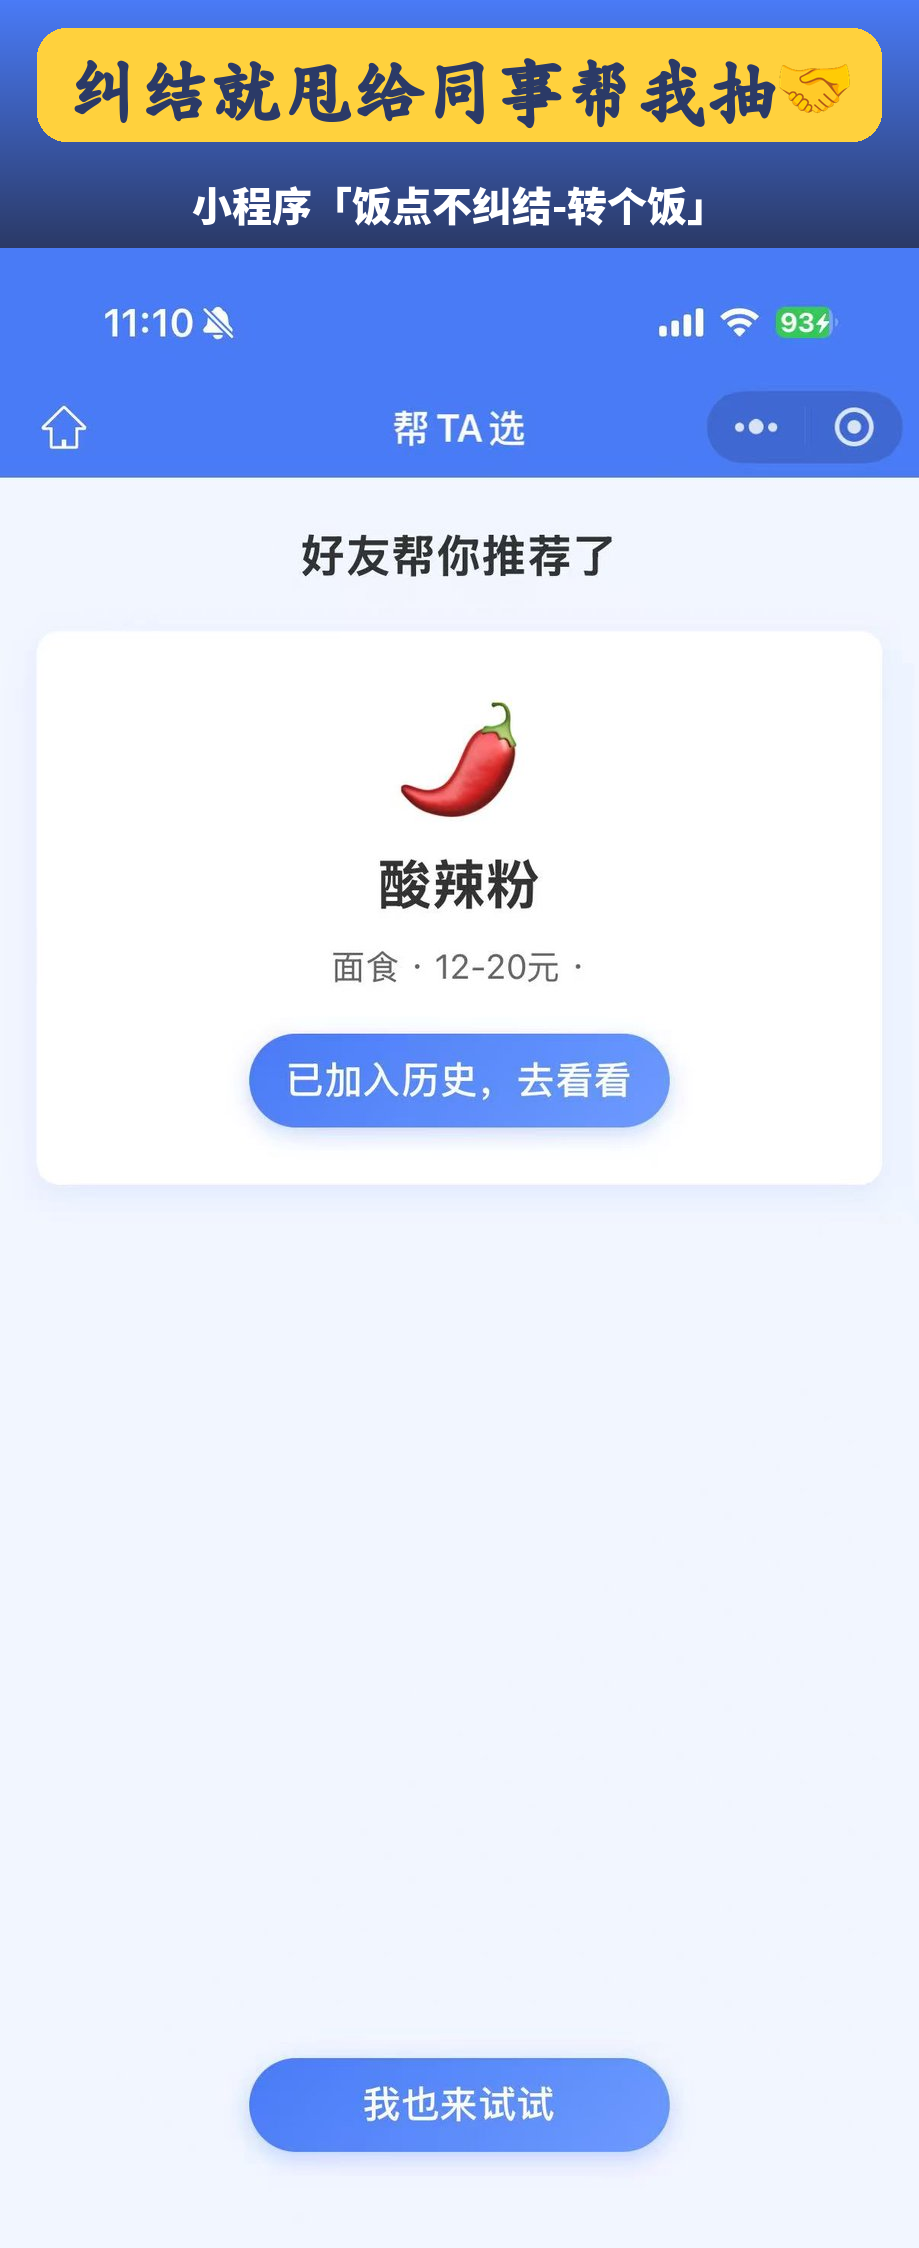
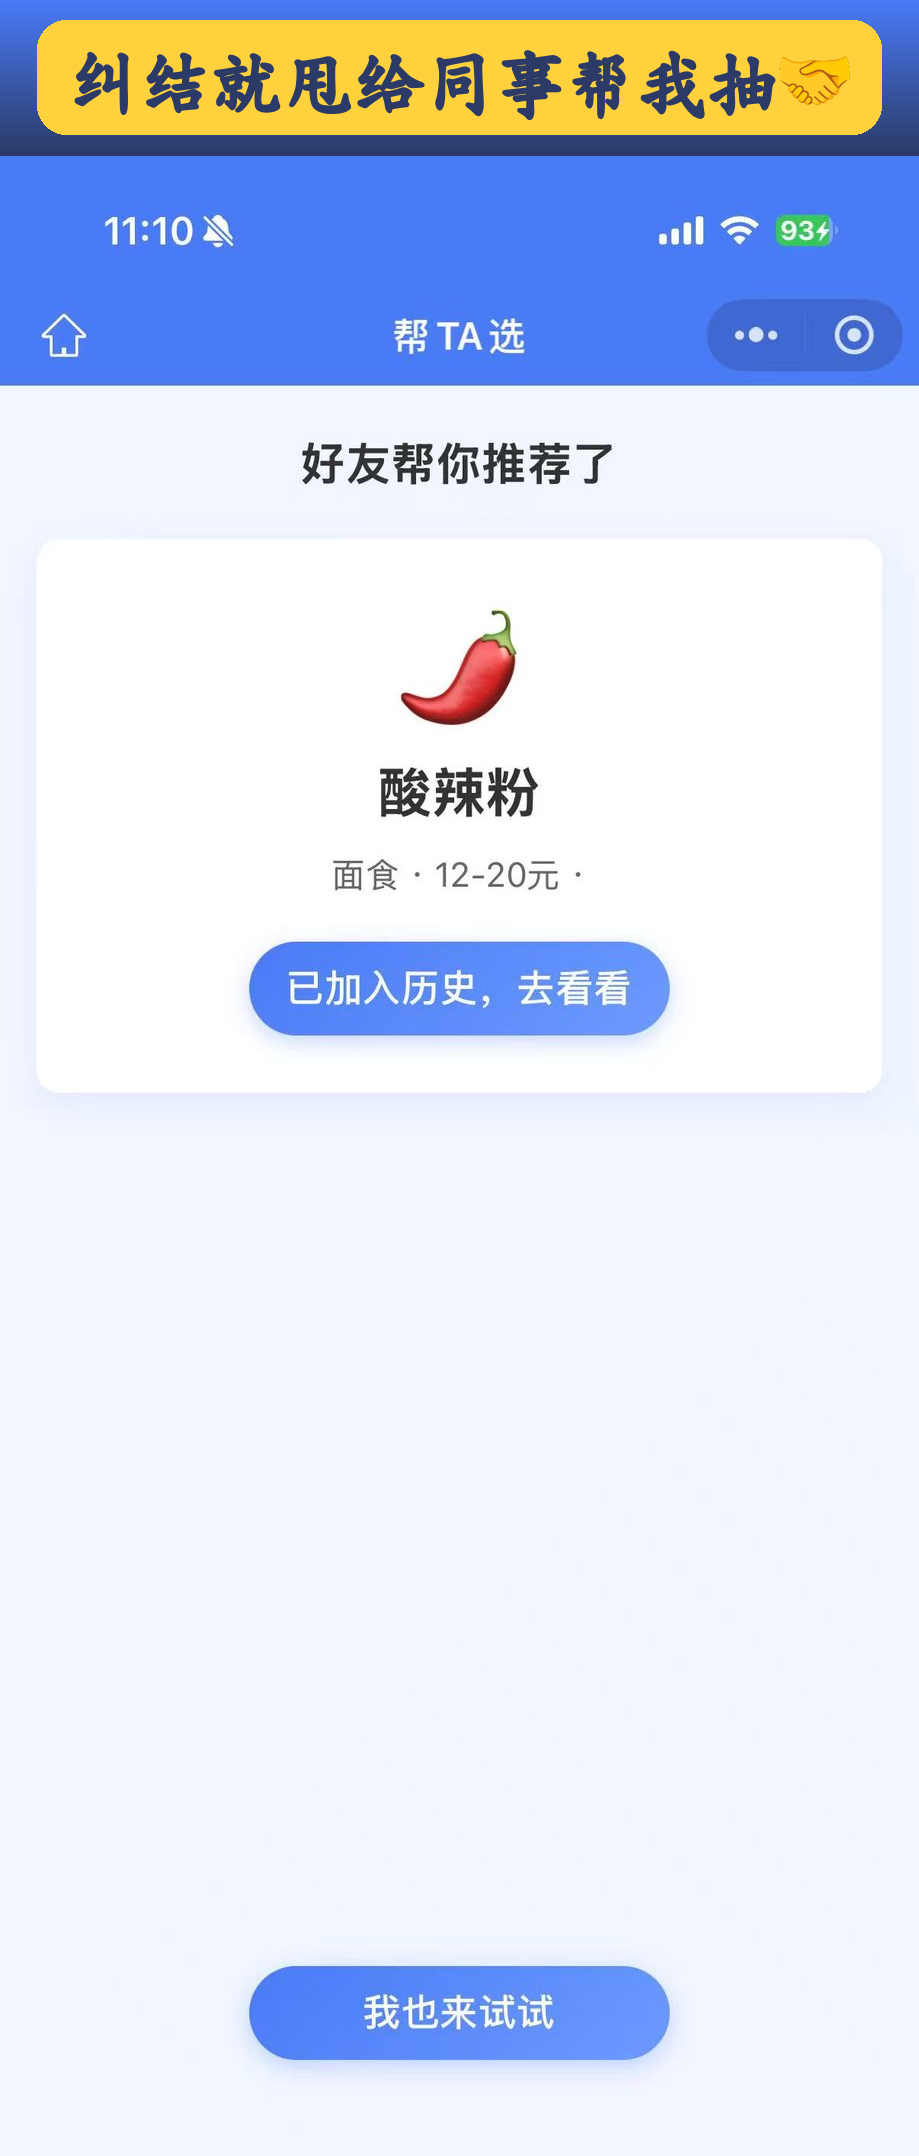
fix: 配图去除微信/小程序/名字等导流文字，封面换为无平台钩子标签，内容图仅留标题

Changed region(s): [[0.0, 0.0, 1.0, 0.5283], [0.2742, 0.9012, 0.7312, 0.9634]]

diff --git a/images/gen_promo.py b/images/gen_promo.py
@@ -147,7 +147,7 @@ def process(item):
     fname, out, cover, title, sub = item
     src = Image.open(os.path.join(SRC_DIR, fname)).convert('RGB')
     W, Hs = src.size
-    band = int(W * (0.44 if cover else 0.27))
+    band = int(W * (0.44 if cover else 0.17))
     canvas = Image.new('RGB', (W, Hs + band), WHITE)
 
     # 顶部渐变标题条（加深到深蓝，衬托亮色文字）
@@ -164,23 +164,20 @@ def process(item):
         block_center(canvas, W / 2, y0, title, ts, NAVY, YELLOW, cute=True, stroke=2)
         draw_center(canvas, W / 2, y0 + ts * 1.7, sub, ss, WHITE,
                     stroke=5, stroke_fill=NAVY, cute=True)
-        # 小程序名徽标（奶油底圆角）
+        # 底部钩子标签（不涉及任何平台/导流，避免违规）
         d = ImageDraw.Draw(canvas)
-        name_txt = '👉 微信搜「' + APP_NAME + '」'
-        nw = measure(d, name_txt, ns)
+        badge_txt = '🎯 选择困难星人自救指南'
+        nw = measure(d, badge_txt, ns, cute=True)
         pad = int(W * 0.032)
         by = y0 + ts * 1.7 + ss * 2.0
         box = [W / 2 - nw / 2 - pad, by, W / 2 + nw / 2 + pad, by + ns * 1.6]
         d.rounded_rectangle(box, radius=int(ns * 0.8), fill=CREAM)
-        draw_center(canvas, W / 2, by + ns * 0.3, name_txt, ns, NAVY)
+        draw_center(canvas, W / 2, by + ns * 0.3, badge_txt, ns, NAVY, cute=True)
     else:
-        # 内容图：黄底大标题（撞色）+ 白色小程序名
+        # 内容图：只保留黄底大标题（不写“小程序/微信/名字”，避免导流）
         ts = int(W * 0.078)
-        ns = int(W * 0.044)
-        y0 = band * 0.20
+        y0 = band * 0.27
         block_center(canvas, W / 2, y0, title, ts, NAVY, YELLOW, cute=True, stroke=2)
-        draw_center(canvas, W / 2, y0 + ts * 1.75,
-                    '小程序「' + APP_NAME + '」', ns, WHITE)
 
     canvas.save(os.path.join(OUT, out), quality=92)
     print('生成', out, canvas.size)
